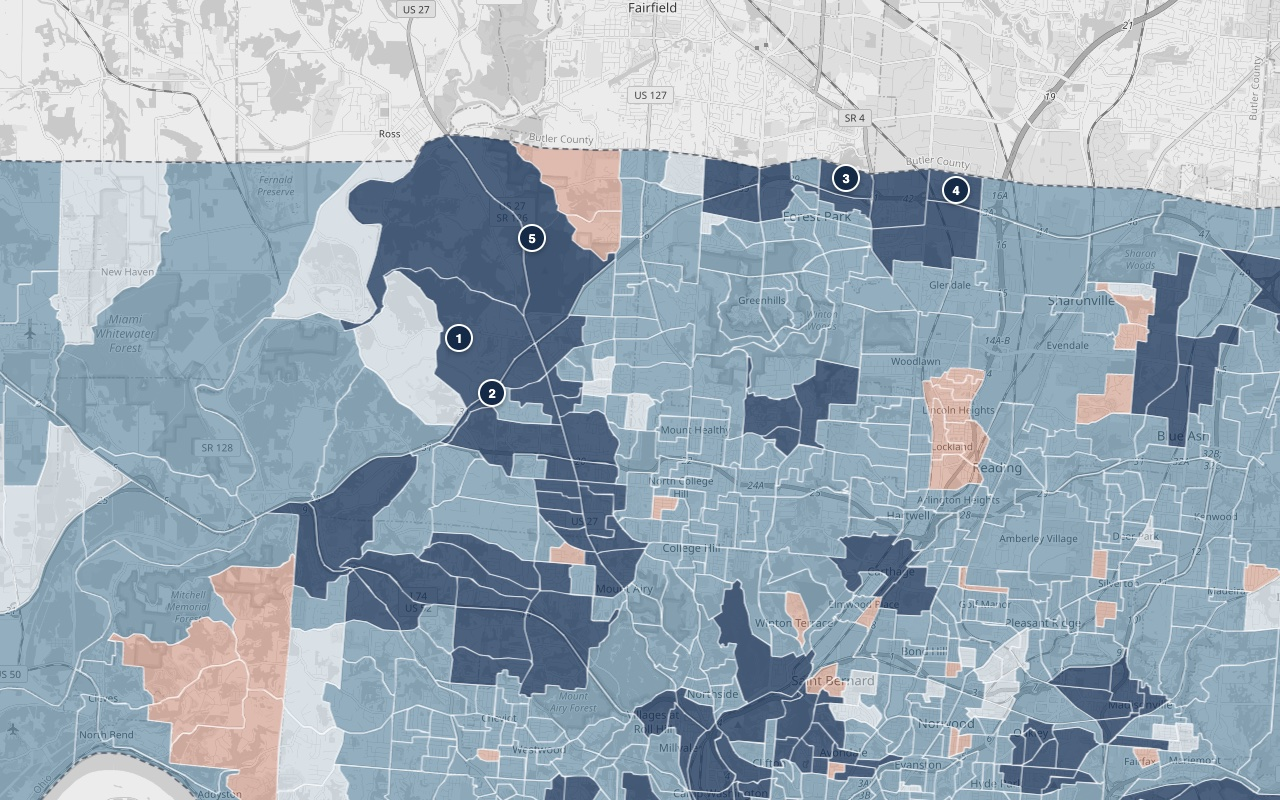
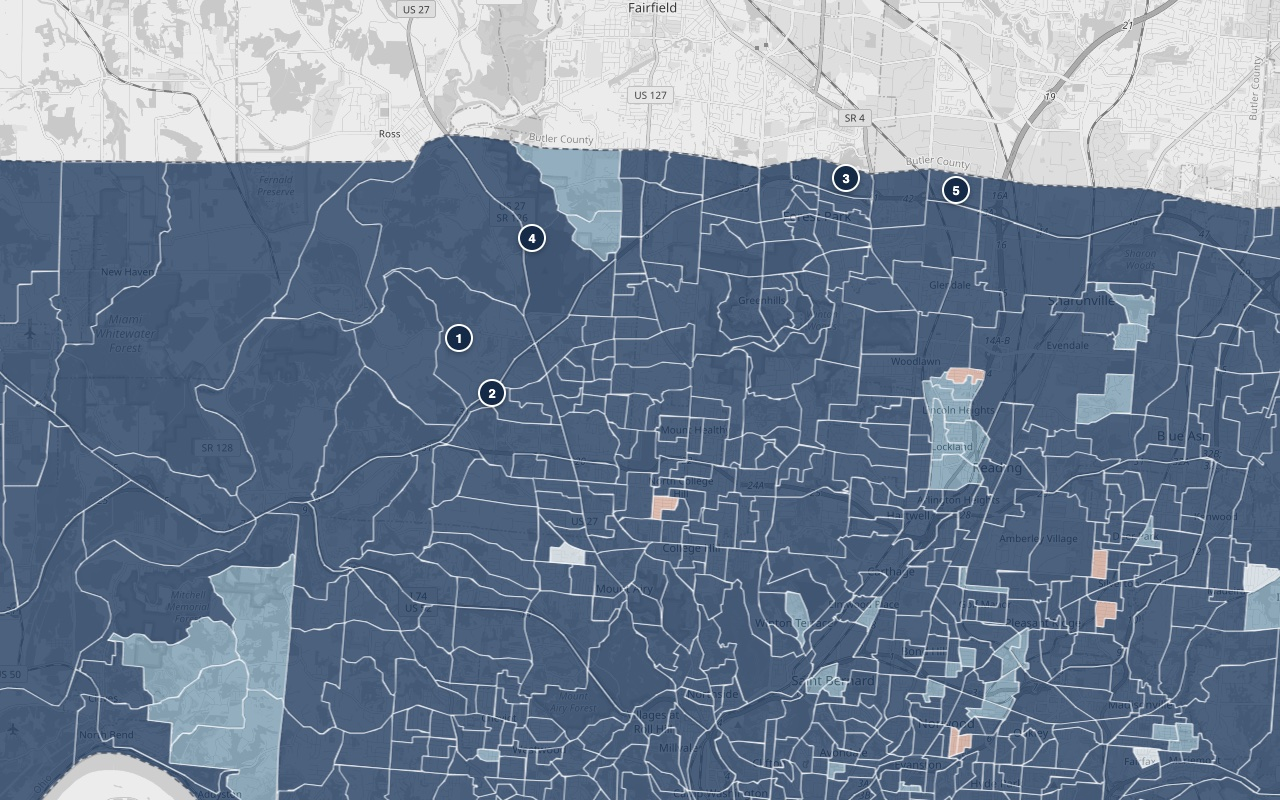
Refresh the Hamilton County samples from the updated car-count model

diff --git a/index.html b/index.html
@@ -997,7 +997,7 @@
                 </figure>
                 <aside class="demo-card">
                     <p class="demo-card-kicker">Top-ranked site &middot; Tract 205.02, BG 2</p>
-                    <div class="demo-score"><strong>78</strong><span>site score<br>out of 100</span></div>
+                    <div class="demo-score"><strong>82</strong><span>site score<br>out of 100</span></div>
                     <table class="demo-table">
                         <tr class="grp"><th colspan="2">Trade area</th></tr>
                         <tr><td>Population</td><td>3,134</td></tr>
@@ -1012,26 +1012,26 @@
                         <tr><td>Nearest competitor</td><td>3.2 km</td></tr>
                         <tr><td>Car washes within 8 km</td><td>21</td></tr>
                         <tr class="grp"><th colspan="2">Financials</th></tr>
-                        <tr><td>Projected cars per day <small>(25th-75th pct)</small></td><td>250 <small>(147-410)</small></td></tr>
-                        <tr><td>Expected annual revenue</td><td>$987K</td></tr>
-                        <tr><td>Expected margin</td><td>38.0%</td></tr>
-                        <tr><td>Chance of a loss</td><td>26.9%</td></tr>
+                        <tr><td>Projected cars per day <small>(25th-75th pct)</small></td><td>526 <small>(308-861)</small></td></tr>
+                        <tr><td>Expected annual revenue</td><td>$2.07M</td></tr>
+                        <tr><td>Expected margin</td><td>63.9%</td></tr>
+                        <tr><td>Chance of a loss</td><td>6.0%</td></tr>
                     </table>
                     <p class="demo-card-kicker demo-card-sub">Top 5 of 678 block groups</p>
                     <table class="demo-rank">
                         <thead><tr><th>#</th><th>Block group</th><th>Score</th><th>Loss</th><th>Nearest</th></tr></thead>
                         <tbody>
-                            <tr><td>1</td><td>205.02 BG 2</td><td>78</td><td>26.9%</td><td>3.2 km</td></tr>
-                            <tr><td>2</td><td>207.01 BG 1</td><td>72</td><td>26.6%</td><td>2.0 km</td></tr>
-                            <tr><td>3</td><td>215.01 BG 2</td><td>72</td><td>26.1%</td><td>1.1 km</td></tr>
-                            <tr><td>4</td><td>223.01 BG 1</td><td>72</td><td>25.7%</td><td>1.3 km</td></tr>
-                            <tr><td>5</td><td>205.04 BG 3</td><td>72</td><td>26.9%</td><td>1.7 km</td></tr>
+                            <tr><td>1</td><td>205.02 BG 2</td><td>82</td><td>6.0%</td><td>3.2 km</td></tr>
+                            <tr><td>2</td><td>207.01 BG 1</td><td>76</td><td>7.0%</td><td>2.0 km</td></tr>
+                            <tr><td>3</td><td>215.01 BG 2</td><td>76</td><td>6.2%</td><td>1.1 km</td></tr>
+                            <tr><td>4</td><td>205.04 BG 3</td><td>76</td><td>6.2%</td><td>1.7 km</td></tr>
+                            <tr><td>5</td><td>223.01 BG 1</td><td>76</td><td>6.8%</td><td>1.3 km</td></tr>
                         </tbody>
                     </table>
                     <p class="demo-more" aria-hidden="true">Scroll for more &darr;</p>
                 </aside>
             </div>
-            <div class="demo-stats"><div><strong>678</strong><span>block groups ranked</span></div><div><strong>18</strong><span>recommended locations</span></div><div><strong>87.9%</strong><span>of locations above break-even</span></div><div><strong>48,125</strong><span>vehicles a day on the busiest reachable road</span></div><div><strong>6</strong><span>factors in every score</span></div></div>
+            <div class="demo-stats"><div><strong>678</strong><span>block groups ranked</span></div><div><strong>18</strong><span>recommended locations</span></div><div><strong>98.2%</strong><span>of locations above break-even</span></div><div><strong>48,125</strong><span>vehicles a day on the busiest reachable road</span></div><div><strong>6</strong><span>factors in every score</span></div></div>
             <p class="demo-dialog-note">Sample analysis of Hamilton County, Ohio. In the full report, maps are interactive: zoom in and hover over any area to see its numbers.</p>
         </dialog>
         <dialog class="demo-dialog demo-rich" id="demo-02" aria-labelledby="demo-02-title">
@@ -1149,24 +1149,24 @@
                 </figure>
                 <aside class="demo-card">
                     <p class="demo-card-kicker">Top-ranked site, typical year</p>
-                    <div class="demo-score"><strong>$987K</strong><span>expected annual<br>revenue</span></div>
+                    <div class="demo-score"><strong>$2.07M</strong><span>expected annual<br>revenue</span></div>
                     <table class="demo-table">
                         <tr class="grp"><th colspan="2">Scenarios</th></tr>
-                        <tr><td>Pessimistic</td><td>$219K</td></tr>
-                        <tr><td>Base case</td><td>$987K</td></tr>
-                        <tr><td>Optimistic</td><td>$2.47M</td></tr>
+                        <tr><td>Pessimistic</td><td>$460K</td></tr>
+                        <tr><td>Base case</td><td>$2.07M</td></tr>
+                        <tr><td>Optimistic</td><td>$5.18M</td></tr>
                         <tr class="grp"><th colspan="2">Unit economics</th></tr>
-                        <tr><td>Projected cars per day <small>(25th-75th pct)</small></td><td>250 <small>(147-410)</small></td></tr>
-                        <tr><td>Expected gross profit</td><td>$375K</td></tr>
-                        <tr><td>Expected margin</td><td>38.0%</td></tr>
-                        <tr><td>Capacity used</td><td>38.4%</td></tr>
+                        <tr><td>Projected cars per day <small>(25th-75th pct)</small></td><td>526 <small>(308-861)</small></td></tr>
+                        <tr><td>Expected gross profit</td><td>$1.32M</td></tr>
+                        <tr><td>Expected margin</td><td>63.9%</td></tr>
+                        <tr><td>Capacity used</td><td>80.6%</td></tr>
                         <tr><td>Break-even revenue</td><td>$558K</td></tr>
-                        <tr><td>Cushion above break-even</td><td>+77%</td></tr>
+                        <tr><td>Cushion above break-even</td><td>+271%</td></tr>
                     </table>
                     <p class="demo-more" aria-hidden="true">Scroll for more &darr;</p>
                 </aside>
             </div>
-            <div class="demo-stats"><div><strong>596 of 678</strong><span>block groups above break-even</span></div><div><strong>$717K</strong><span>median base-case revenue</span></div><div><strong>$558K</strong><span>break-even revenue a year</span></div><div><strong>133</strong><span>block groups 50%+ above break-even</span></div><div><strong>190</strong><span>average daily customers</span></div></div>
+            <div class="demo-stats"><div><strong>666 of 678</strong><span>block groups above break-even</span></div><div><strong>$1.32M</strong><span>median base-case revenue</span></div><div><strong>$558K</strong><span>break-even revenue a year</span></div><div><strong>623</strong><span>block groups 50%+ above break-even</span></div><div><strong>355</strong><span>average daily customers</span></div></div>
             <p class="demo-dialog-note">Sample analysis of Hamilton County, Ohio. In the full report, maps are interactive: zoom in and hover over any area to see its numbers.</p>
         </dialog>
         <dialog class="demo-dialog demo-rich" id="demo-05" aria-labelledby="demo-05-title">
@@ -1188,29 +1188,29 @@
                 </figure>
                 <aside class="demo-card">
                     <p class="demo-card-kicker">Top-ranked site, 5,000 simulated years</p>
-                    <div class="demo-score"><strong>26.9%</strong><span>chance of<br>a loss</span></div>
+                    <div class="demo-score"><strong>6.0%</strong><span>chance of<br>a loss</span></div>
                     <table class="demo-table">
                         <tr class="grp"><th colspan="2">Simulated revenue</th></tr>
-                        <tr><td>Median</td><td>$925K</td></tr>
-                        <tr><td>Average</td><td>$1.20M</td></tr>
-                        <tr><td>Bad year (1 in 20)</td><td>$248K</td></tr>
-                        <tr><td>Average of the worst 5%</td><td>$180K</td></tr>
+                        <tr><td>Median</td><td>$1.94M</td></tr>
+                        <tr><td>Average</td><td>$2.53M</td></tr>
+                        <tr><td>Bad year (1 in 20)</td><td>$520K</td></tr>
+                        <tr><td>Average of the worst 5%</td><td>$378K</td></tr>
                     </table>
                     <p class="demo-card-kicker demo-card-sub">Block groups by chance of a loss</p>
                     <table class="demo-rank">
                         <thead><tr><th>Band</th><th>Block groups</th><th>Chance of a loss</th></tr></thead>
                         <tbody>
-                            <tr><td>Top 5%</td><td>34</td><td>24.3-29.7%</td></tr>
-                            <tr><td>5-10%</td><td>34</td><td>29.9-32.6%</td></tr>
-                            <tr><td>10-25%</td><td>102</td><td>32.6-38.1%</td></tr>
-                            <tr><td>25-50%</td><td>169</td><td>38.1-43.4%</td></tr>
-                            <tr><td>Bottom 50%</td><td>339</td><td>43.5-98.0%</td></tr>
+                            <tr><td>Top 5%</td><td>34</td><td>5.6-9.6%</td></tr>
+                            <tr><td>5-10%</td><td>34</td><td>9.7-11.8%</td></tr>
+                            <tr><td>10-25%</td><td>102</td><td>11.9-15.1%</td></tr>
+                            <tr><td>25-50%</td><td>169</td><td>15.2-20.4%</td></tr>
+                            <tr><td>Bottom 50%</td><td>339</td><td>20.4-90.4%</td></tr>
                         </tbody>
                     </table>
                     <p class="demo-more" aria-hidden="true">Scroll for more &darr;</p>
                 </aside>
             </div>
-            <div class="demo-stats"><div><strong>5,000</strong><span>simulations per block group</span></div><div><strong>24.3%</strong><span>lowest chance of a loss</span></div><div><strong>43.4%</strong><span>median chance of a loss</span></div><div><strong>68</strong><span>block groups in the top 10%, under 32.6%</span></div><div><strong>$255K</strong><span>best bad-year revenue (1 in 20)</span></div></div>
+            <div class="demo-stats"><div><strong>5,000</strong><span>simulations per block group</span></div><div><strong>5.6%</strong><span>lowest chance of a loss</span></div><div><strong>20.4%</strong><span>median chance of a loss</span></div><div><strong>68</strong><span>block groups in the top 10%, under 11.8%</span></div><div><strong>$535K</strong><span>best bad-year revenue (1 in 20)</span></div></div>
             <p class="demo-dialog-note">Sample analysis of Hamilton County, Ohio. In the full report, maps are interactive: zoom in and hover over any area to see its numbers.</p>
         </dialog>
         <dialog class="demo-dialog demo-rich" id="demo-06" aria-labelledby="demo-06-title">
@@ -1251,8 +1251,8 @@
                             <tr><td>1</td><td>205.02 BG 2</td><td>3.2 km</td><td>21</td></tr>
                             <tr><td>2</td><td>207.01 BG 1</td><td>2.0 km</td><td>24</td></tr>
                             <tr><td>3</td><td>215.01 BG 2</td><td>1.1 km</td><td>20</td></tr>
-                            <tr><td>4</td><td>223.01 BG 1</td><td>1.3 km</td><td>21</td></tr>
-                            <tr><td>5</td><td>205.04 BG 3</td><td>1.7 km</td><td>18</td></tr>
+                            <tr><td>4</td><td>205.04 BG 3</td><td>1.7 km</td><td>18</td></tr>
+                            <tr><td>5</td><td>223.01 BG 1</td><td>1.3 km</td><td>21</td></tr>
                         </tbody>
                     </table>
                     <p class="demo-more" aria-hidden="true">Scroll for more &darr;</p>
@@ -1368,8 +1368,8 @@
                     </div>
                     <div class="proof reveal">
                         <svg class="icon" fill="none" stroke="currentColor" stroke-width="1.6" stroke-linecap="round" stroke-linejoin="round" aria-hidden="true"><use href="#i-shield"/></svg>
-                        <h3>Built to Be Conservative</h3>
-                        <p>Most establishments we tested beat our estimate. We would rather you beat the plan than fall short of it.</p>
+                        <h3>Honest About the Range</h3>
+                        <p>When we checked our model against real express washes, 7 in 10 came in within the range it gave. Every estimate comes with that range.</p>
                     </div>
                     <div class="proof reveal">
                         <svg class="icon" fill="none" stroke="currentColor" stroke-width="1.6" stroke-linecap="round" stroke-linejoin="round" aria-hidden="true"><use href="#i-data"/></svg>
@@ -1445,7 +1445,7 @@
                         <div class="tier-label">Financing a build</div>
                         <h3>Investment Risk Report</h3>
                         <div class="price-modifier">Fixed fee</div>
-                        <div class="tier-desc">Built to justify a capital decision with conservative, defensible estimates.</div>
+                        <div class="tier-desc">Built to justify a capital decision with defensible estimates and honest ranges.</div>
                         <ul>
                             <li>Everything in the Site Feasibility Report</li>
                             <li>The odds the site loses money</li>
